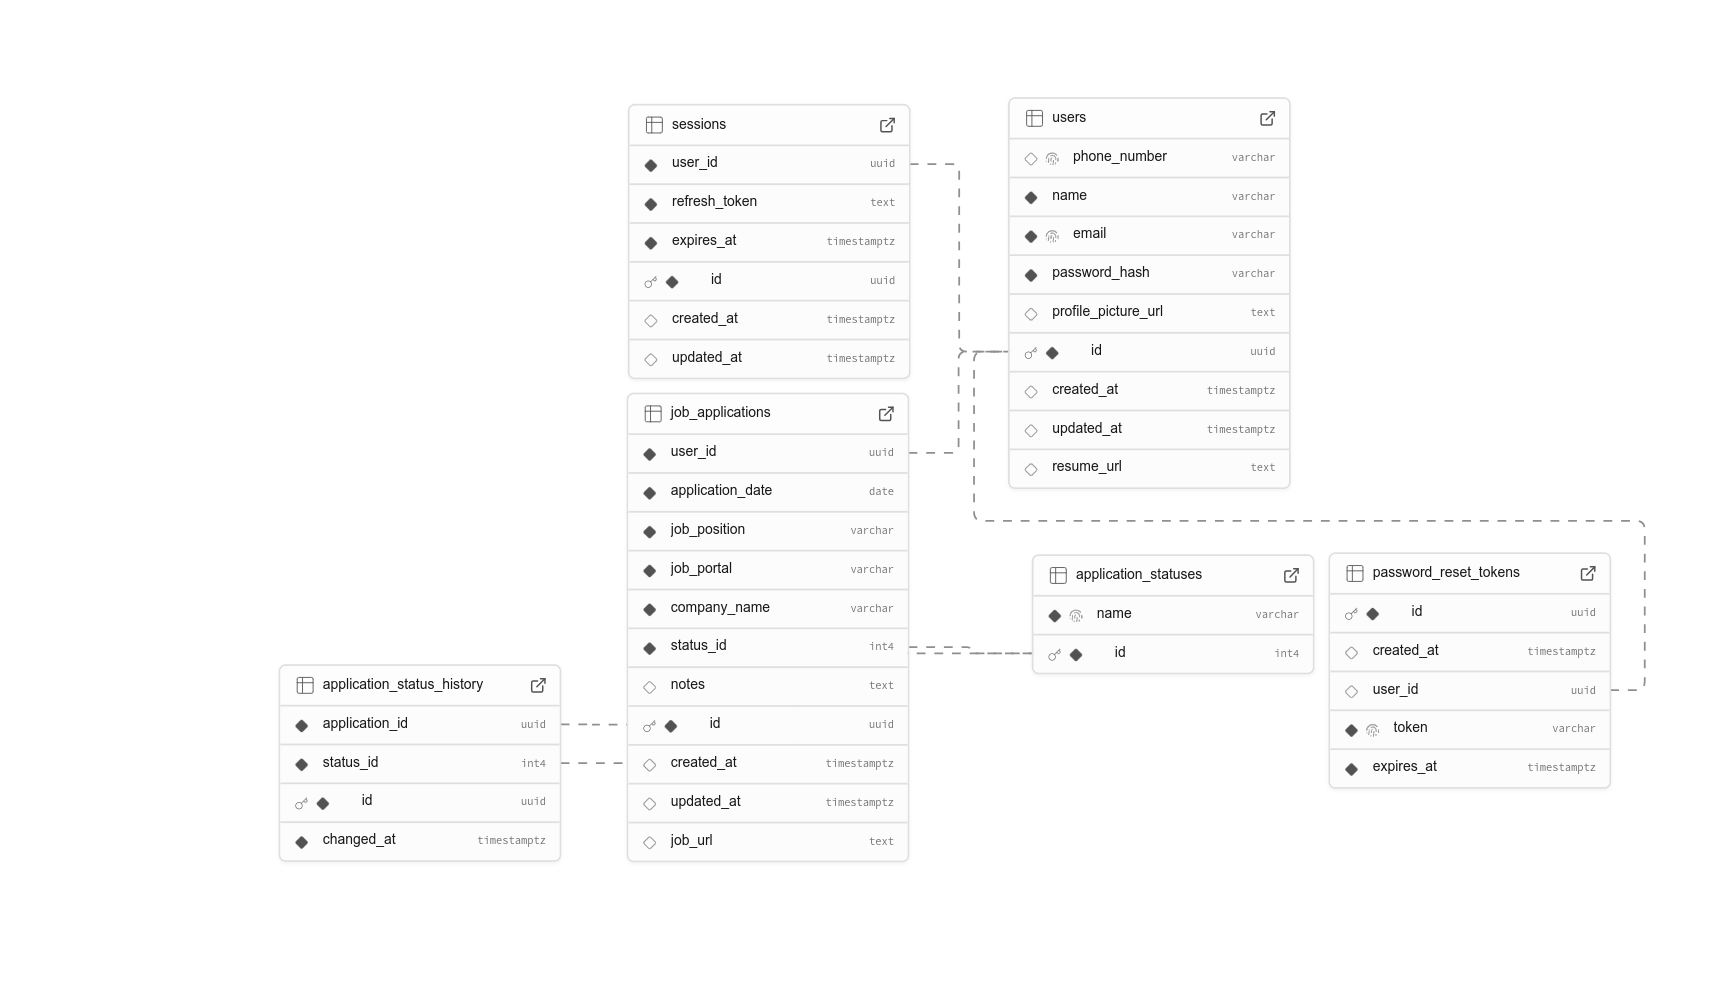
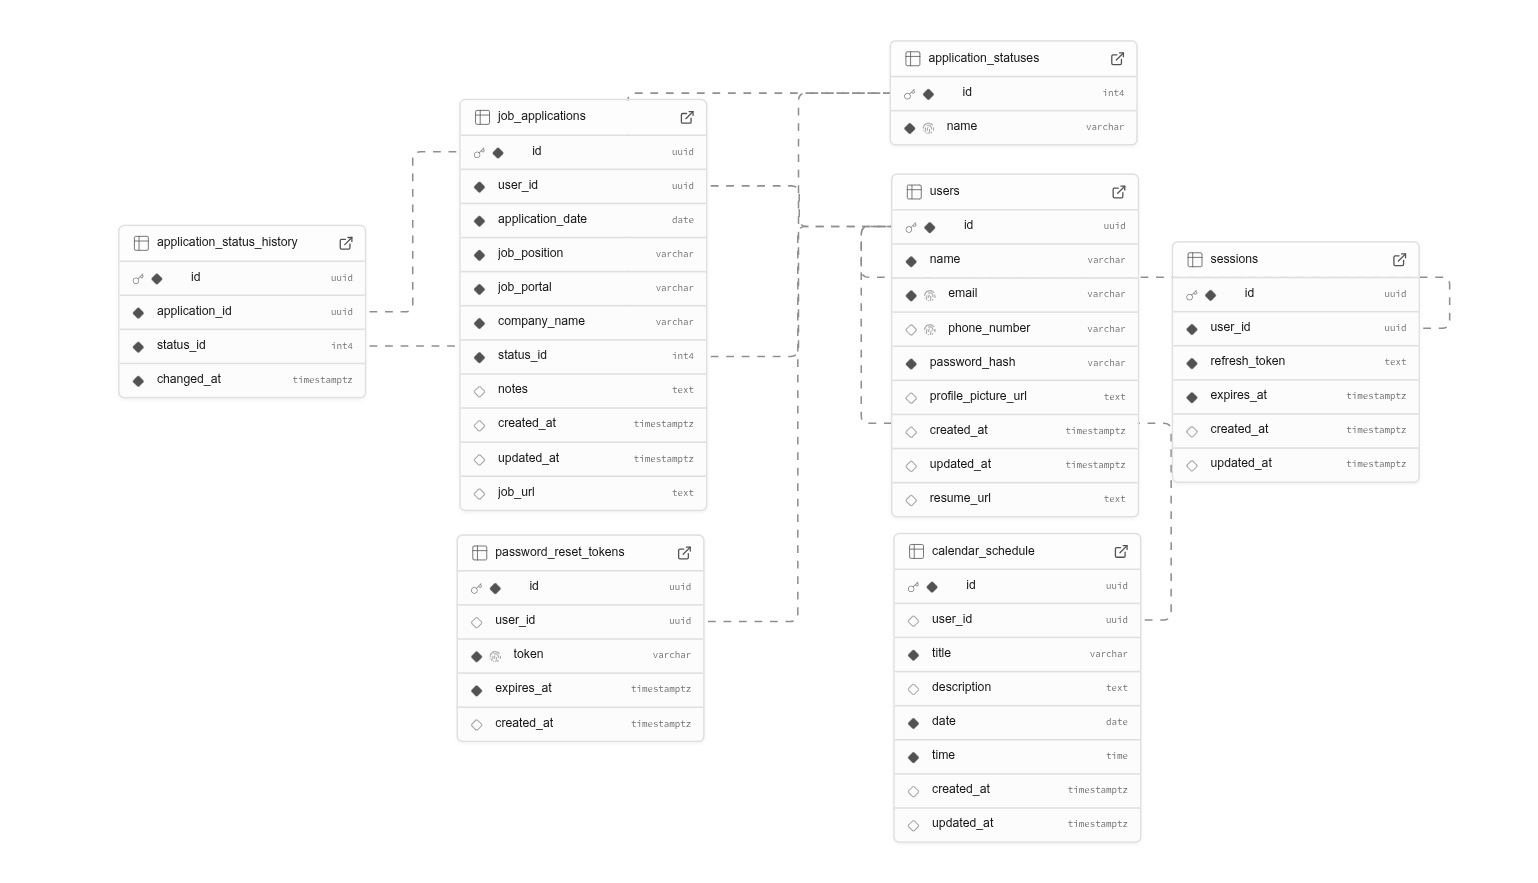
feat: add calendar shedule API ( update & get data by id )

diff --git a/src/controllers/shedulerController.ts b/src/controllers/shedulerController.ts
@@ -57,6 +57,98 @@ export const getSchedules = async (req: Request, res: Response) => {
   }
 };
 
+export const getScheduleById = async (req: Request, res: Response) => {
+  try {
+    const userId = (req as any).user.id;
+    const { id } = req.params;
+
+    const { data, error } = await supabase
+      .from("calendar_schedule")
+      .select("*")
+      .eq("id", id)
+      .eq("user_id", userId) // Ensure user can only access their own data
+      .single();
+
+    if (error) {
+      res
+        .status(error.code === "PGRST116" ? 404 : 500)
+        .json(
+          errorResponse(
+            error.code === "PGRST116"
+              ? "Schedule not found"
+              : `Error fetching schedule: ${error.message}`,
+            error.code === "PGRST116" ? 404 : 500
+          )
+        );
+    }
+
+    res
+      .status(200)
+      .json(successResponse("Schedule retrieved successfully", data));
+  } catch (error: any) {
+    res.status(500).json(errorResponse(`Server error: ${error.message}`, 500));
+  }
+};
+
+export const updateSchedule = async (req: Request, res: Response) => {
+  try {
+    const userId = (req as any).user.id;
+    const { id } = req.params;
+    const { title, description, date, time } = req.body;
+
+    // Check if schedule available
+    const { data: existingApp, error: checkError } = await supabase
+      .from("calendar_schedule")
+      .select("id")
+      .eq("id", id)
+      .eq("user_id", userId)
+      .single();
+
+    if (checkError) {
+      res
+        .status(checkError.code === "PGRST116" ? 404 : 500)
+        .json(
+          errorResponse(
+            checkError.code === "PGRST116"
+              ? "Schedule not found"
+              : `Error checking schedule: ${checkError.message}`,
+            checkError.code === "PGRST116" ? 404 : 500
+          )
+        );
+    }
+
+    const updateData = {
+      title,
+      description,
+      date,
+      time,
+      updated_at: new Date().toISOString(),
+    };
+
+    const { data, error } = await supabase
+      .from("calendar_schedule")
+      .update(updateData)
+      .eq("id", id)
+      .eq("user_id", userId)
+      .select("*")
+      .single();
+
+    if (error) {
+      res
+        .status(500)
+        .json(
+          errorResponse(`Error updating schedule data: ${error.message}`, 500)
+        );
+    }
+
+    res
+      .status(200)
+      .json(successResponse("Schedule updated successfully", data));
+  } catch (error: any) {
+    res.status(500).json(errorResponse(`Server error: ${error.message}`, 500));
+  }
+};
+
 export const deleteSchedule = async (req: Request, res: Response) => {
   try {
     const userId = (req as any).user.id;

diff --git a/src/routes/scheduleRoutes.ts b/src/routes/scheduleRoutes.ts
@@ -2,7 +2,9 @@ import express from "express";
 import {
   createNewSchedule,
   deleteSchedule,
+  getScheduleById,
   getSchedules,
+  updateSchedule,
 } from "../controllers/shedulerController";
 import { authenticate } from "../middleware/authMiddleware";
 
@@ -10,6 +12,12 @@ const router = express.Router();
 
 // get schedules data
 router.get("/my-shedules", authenticate, getSchedules);
+
+// get schedule data by id
+router.get("/:id", authenticate, getScheduleById);
+
+// get schedule data by id
+router.put("/:id", authenticate, updateSchedule);
 
 // post new schedule data
 router.post("/my-shedules", authenticate, createNewSchedule);

diff --git a/readme.md b/readme.md
@@ -25,6 +25,8 @@ A RESTful API for tracking and managing job applications, built with Express.js,
   - Read, update data user ( username, email, password, photo profile)
   - Password change functionality
   - Upload & download resume
+  - Upload, edit, delete photo profile
+  - Create, update, delete shedule
 
 ## Tech Stack
 
@@ -140,6 +142,23 @@ CREATE TABLE application_status_history (
 );
 ```
 
+### Calendar Schedule table
+
+```sql
+CREATE TABLE public.calendar_schedule (
+    id uuid NOT NULL DEFAULT gen_random_uuid(),
+    user_id uuid NULL,
+    title character varying NOT NULL,
+    description text NULL,
+    "date" date NOT NULL,
+    "time" time without time zone NOT NULL,
+    created_at timestamp with time zone NULL DEFAULT now(),
+    updated_at timestamp with time zone NULL DEFAULT now(),
+    CONSTRAINT calendar_schedule_pkey PRIMARY KEY (id),
+    CONSTRAINT calendar_schedule_user_id_fkey FOREIGN KEY (user_id) REFERENCES users(id) ON DELETE CASCADE
+);
+```
+
 ## API Endpoints
 
 ### Authentication
@@ -178,6 +197,16 @@ CREATE TABLE application_status_history (
 | GET    | `/api/v1/job-applications/{:id}`           | Get data application by id                      | `{ - }`                                                                                   | YES           |
 | GET    | `/api/v1/job-applications/group-by-status` | Get the total number of applications per status | `{ - }`                                                                                   | YES           |
 | GET    | `/api/v1/job-applications/statuses`        | Get all application statuses                    | `{ - }`                                                                                   | YES           |
+
+### Calendar Shedule
+
+| Method | Endpoint                       | Description                | Request Body                         | Auth (Bearer) |
+| ------ | ------------------------------ | -------------------------- | ------------------------------------ | ------------- |
+| POST   | `/api/v1/schedule/my-shedules` | Create new schedule        | `{ title, description, date, time }` | YES           |
+| GET    | `/api/v1/schedule/my-shedules` | Get all schedule data      | `{ - }`                              | YES           |
+| GET    | `/api/v1/shedule/{:id}`        | Get schedule data by id    | `{ - }`                              | YES           |
+| PUT    | `/api/v1/shedule/{:id}`        | Update schedule data       | `Any fields to update   `            | YES           |
+| DEL    | `/api/v1/shedule/{:id}`        | Delete schedule data by id | `{ - }`                              | YES           |
 
 ## Authentication Flow
 
